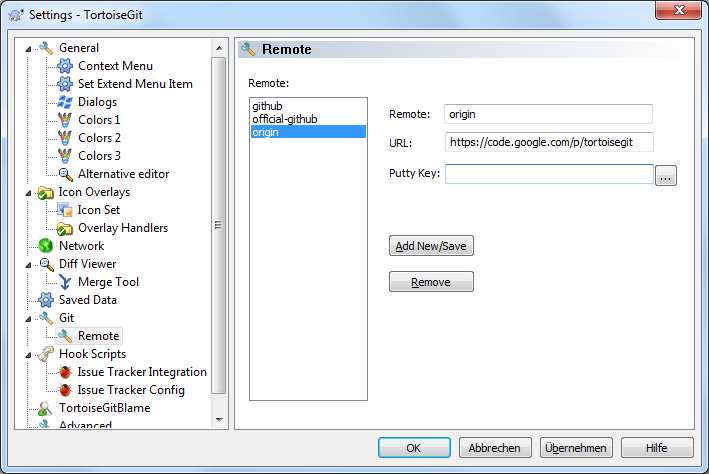
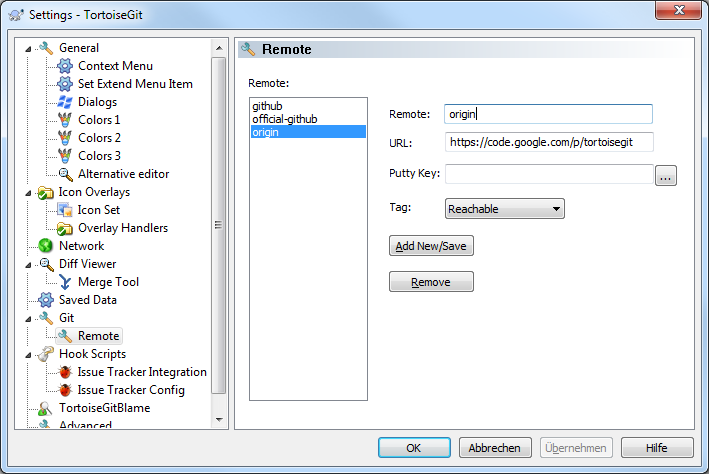
Can set tagopt in Settings Dialog Remote Page
(Fixes issue #1529)

Changed region(s): [[0.6206, 0.4135, 0.8068, 0.4726], [0.7447, 0.9156, 0.8688, 0.9747], [0.5585, 0.4135, 0.5896, 0.443]]

diff --git a/src/TortoiseProc/Settings/SettingGitRemote.cpp b/src/TortoiseProc/Settings/SettingGitRemote.cpp
@@ -55,6 +55,7 @@ void CSettingGitRemote::DoDataExchange(CDataExchange* pDX)
 	DDX_Text(pDX, IDC_EDIT_REMOTE, m_strRemote);
 	DDX_Text(pDX, IDC_EDIT_URL, m_strUrl);
 	DDX_Text(pDX, IDC_EDIT_PUTTY_KEY, m_strPuttyKeyfile);
+	DDX_Control(pDX, IDC_COMBO_TAGOPT, m_ctrlTagOpt);
 }
 
 
@@ -65,6 +66,7 @@ BEGIN_MESSAGE_MAP(CSettingGitRemote, CPropertyPage)
 	ON_EN_CHANGE(IDC_EDIT_REMOTE, &CSettingGitRemote::OnEnChangeEditRemote)
 	ON_EN_CHANGE(IDC_EDIT_URL, &CSettingGitRemote::OnEnChangeEditUrl)
 	ON_EN_CHANGE(IDC_EDIT_PUTTY_KEY, &CSettingGitRemote::OnEnChangeEditPuttyKey)
+	ON_EN_CHANGE(IDC_COMBO_TAGOPT, &CSettingGitRemote::OnEnChangeComboTagOpt)
 	ON_BN_CLICKED(IDC_BUTTON_REMOVE, &CSettingGitRemote::OnBnClickedButtonRemove)
 END_MESSAGE_MAP()
 
@@ -86,6 +88,11 @@ BOOL CSettingGitRemote::OnInitDialog()
 	m_ctrlRemoteList.ResetContent();
 	for (size_t i = 0; i < remotes.size(); i++)
 		m_ctrlRemoteList.AddString(remotes[i]);
+
+	m_ctrlTagOpt.AddString(CString(MAKEINTRESOURCE(IDS_FETCH_REACHABLE)));
+	m_ctrlTagOpt.AddString(CString(MAKEINTRESOURCE(IDS_NONE)));
+	m_ctrlTagOpt.AddString(CString(MAKEINTRESOURCE(IDS_ALL)));
+	m_ctrlTagOpt.SetCurSel(0);
 
 	//this->GetDlgItem(IDC_EDIT_REMOTE)->EnableWindow(FALSE);
 	this->UpdateData(FALSE);
@@ -126,7 +133,7 @@ void CSettingGitRemote::OnBnClickedButtonAdd()
 		return;
 	}
 
-	m_ChangedMask = REMOTE_NAME	|REMOTE_URL	|REMOTE_PUTTYKEY;
+	m_ChangedMask = REMOTE_NAME | REMOTE_URL | REMOTE_PUTTYKEY | REMOTE_TAGOPT;
 	if(IsRemoteExist(m_strRemote))
 	{
 		CString msg;
@@ -192,6 +199,16 @@ void CSettingGitRemote::OnLbnSelchangeListRemote()
 
 	m_ChangedMask=0;
 
+
+	cmd.Format(_T("remote.%s.tagopt"), remote);
+	CString tagopt = g_Git.GetConfigValue(cmd, CP_UTF8);
+	index = 0;
+	if (tagopt == "--no-tags")
+		index = 1;
+	else if (tagopt == "--tags")
+		index = 2;
+	m_ctrlTagOpt.SetCurSel(index);
+
 	GetDlgItem(IDC_BUTTON_ADD)->EnableWindow(TRUE);
 	GetDlgItem(IDC_BUTTON_REMOVE)->EnableWindow(TRUE);
 	this->UpdateData(FALSE);
@@ -230,11 +247,33 @@ void CSettingGitRemote::OnEnChangeEditPuttyKey()
 	else
 		this->SetModified(0);
 }
+
+void CSettingGitRemote::OnEnChangeComboTagOpt()
+{
+	m_ChangedMask |= REMOTE_TAGOPT;
+
+	this->UpdateData();
+	this->SetModified();
+}
+
 void CSettingGitRemote::Save(CString key,CString value)
 {
 	CString cmd,out;
 
 	cmd.Format(_T("remote.%s.%s"),this->m_strRemote,key);
+	if (value.IsEmpty())
+	{
+		// don't check result code. it fails if the entry not exist
+		g_Git.UnsetConfigValue(cmd, CONFIG_LOCAL, CP_UTF8, &g_Git.m_CurrentDir);
+		if (!g_Git.GetConfigValue(cmd).IsEmpty())
+		{
+			CString msg;
+			msg.Format(IDS_PROC_SAVECONFIGFAILED, cmd, value);
+			CMessageBox::Show(NULL, msg, _T("TortoiseGit"), MB_OK | MB_ICONERROR);
+		}
+		return;
+	}
+
 	if (g_Git.SetConfigValue(cmd, value, CONFIG_LOCAL, CP_UTF8, &g_Git.m_CurrentDir))
 	{
 		CString msg;
@@ -283,6 +322,17 @@ BOOL CSettingGitRemote::OnApply()
 	if(m_ChangedMask & REMOTE_PUTTYKEY)
 	{
 		Save(_T("puttykeyfile"),this->m_strPuttyKeyfile);
+	}
+
+	if (m_ChangedMask & REMOTE_TAGOPT)
+	{
+		CString tagopt;
+		int index = m_ctrlTagOpt.GetCurSel();
+		if (index == 1)
+			tagopt = "--no-tags";
+		else if (index == 2)
+			tagopt = "--tags";
+		Save(_T("tagopt"), tagopt);
 	}
 
 	SetModified(FALSE);

diff --git a/src/TortoiseProc/PullFetchDlg.cpp b/src/TortoiseProc/PullFetchDlg.cpp
@@ -68,6 +68,7 @@ void CPullFetchDlg::DoDataExchange(CDataExchange* pDX)
 
 
 BEGIN_MESSAGE_MAP(CPullFetchDlg, CHorizontalResizableStandAloneDialog)
+	ON_CBN_SELCHANGE(IDC_REMOTE_COMBO, &CPullFetchDlg::OnCbnSelchangeRemote)
 	ON_BN_CLICKED(IDC_REMOTE_RD, &CPullFetchDlg::OnBnClickedRd)
 	ON_BN_CLICKED(IDC_OTHER_RD, &CPullFetchDlg::OnBnClickedRd)
 	ON_BN_CLICKED(IDOK, &CPullFetchDlg::OnBnClickedOk)
@@ -233,8 +234,29 @@ void CPullFetchDlg::Refresh()
 		}
 	}
 	m_Remote.SetCurSel(sel);
+	OnCbnSelchangeRemote();
 }
 // CPullFetchDlg message handlers
+
+void CPullFetchDlg::OnCbnSelchangeRemote()
+{
+	if (m_Remote.GetCurSel() == 0)
+		return;
+
+	CString remote = m_Remote.GetString();
+	CString key;
+	key.Format(_T("remote.%s.tagopt"), remote);
+	CString tagopt = g_Git.GetConfigValue(key);
+	if (tagopt == "--no-tags")
+		tagopt = CString(MAKEINTRESOURCE(IDS_NONE));
+	else if (tagopt == "--tags")
+		tagopt = CString(MAKEINTRESOURCE(IDS_ALL));
+	else
+		tagopt = CString(MAKEINTRESOURCE(IDS_FETCH_REACHABLE));
+	CString value;
+	value.Format(_T("%s: %s"), CString(MAKEINTRESOURCE(IDS_DEFAULT)), tagopt);
+	GetDlgItem(IDC_STATIC_TAGOPT)->SetWindowText(value);
+}
 
 void CPullFetchDlg::OnBnClickedRd()
 {

diff --git a/src/TortoiseProc/resource.h b/src/TortoiseProc/resource.h
@@ -1202,6 +1202,8 @@
 #define IDC_LOG_JUMPUP                  1724
 #define IDC_LOG_JUMPDOWN                1725
 #define IDC_TEMPFILESCLEAR              1726
+#define IDC_STATIC_TAGOPT               1727
+#define IDC_COMBO_TAGOPT                1728
 #define IDS_DLGTITLE_ADD_DIFF_TOOL      1750
 #define IDS_DLGTITLE_ADD_MERGE_TOOL     1751
 #define IDS_DLGTITLE_EDIT_DIFF_TOOL     1752
@@ -1573,6 +1575,10 @@
 #define IDS_PROC_LOG_PARENT1            9681
 #define IDS_PROC_LOG_PARENT2            9682
 #define IDS_PROC_WARNCLEARTEMP          9683
+#define IDS_DEFAULT                     9684
+#define IDS_ALL                         9685
+#define IDS_NONE                        9686
+#define IDS_FETCH_REACHABLE             9687
 #define ID_VIEW_ZOOMIN                  32772
 #define ID_VIEW_ZOOMOUT                 32773
 #define ID_VIEW_ZOOM100                 32803
@@ -1596,7 +1602,7 @@
 #ifndef APSTUDIO_READONLY_SYMBOLS
 #define _APS_NEXT_RESOURCE_VALUE        345
 #define _APS_NEXT_COMMAND_VALUE         32840
-#define _APS_NEXT_CONTROL_VALUE         1727
+#define _APS_NEXT_CONTROL_VALUE         1729
 #define _APS_NEXT_SYMED_VALUE           201
 #endif
 #endif

diff --git a/src/TortoiseProc/Settings/SettingGitRemote.h b/src/TortoiseProc/Settings/SettingGitRemote.h
@@ -1,6 +1,6 @@
 // TortoiseGit - a Windows shell extension for easy version control
 
-// Copyright (C) 2008-2011 - TortoiseGit
+// Copyright (C) 2008-2012 - TortoiseGit
 
 // This program is free software; you can redistribute it and/or
 // modify it under the terms of the GNU General Public License
@@ -34,6 +34,7 @@ public:
 		REMOTE_NAME		=0x1,
 		REMOTE_URL		=0x2,
 		REMOTE_PUTTYKEY	=0x4,
+		REMOTE_TAGOPT	=0x8,
 	};
 	CSettingGitRemote(CString cmdPath);
 	virtual ~CSettingGitRemote();
@@ -54,6 +55,7 @@ protected:
 	afx_msg void OnEnChangeEditRemote();
 	afx_msg void OnEnChangeEditUrl();
 	afx_msg void OnEnChangeEditPuttyKey();
+	afx_msg void OnEnChangeComboTagOpt();
 	afx_msg void OnBnClickedButtonRemove();
 
 	BOOL OnInitDialog();
@@ -72,4 +74,5 @@ protected:
 	CString		m_strUrl;
 
 	CString		m_strPuttyKeyfile;
+	CComboBox	m_ctrlTagOpt;
 };

diff --git a/src/TortoiseProc/PullFetchDlg.h b/src/TortoiseProc/PullFetchDlg.h
@@ -1,6 +1,6 @@
 // TortoiseGit - a Windows shell extension for easy version control
 
-// Copyright (C) 2008-2011 - TortoiseGit
+// Copyright (C) 2008-2012 - TortoiseGit
 
 // This program is free software; you can redistribute it and/or
 // modify it under the terms of the GNU General Public License
@@ -71,6 +71,7 @@ protected:
 
 	CHyperLink	m_RemoteManage;
 
+	afx_msg void OnCbnSelchangeRemote();
 	afx_msg void OnBnClickedRd();
 	afx_msg void OnBnClickedOk();
 	void Refresh();
